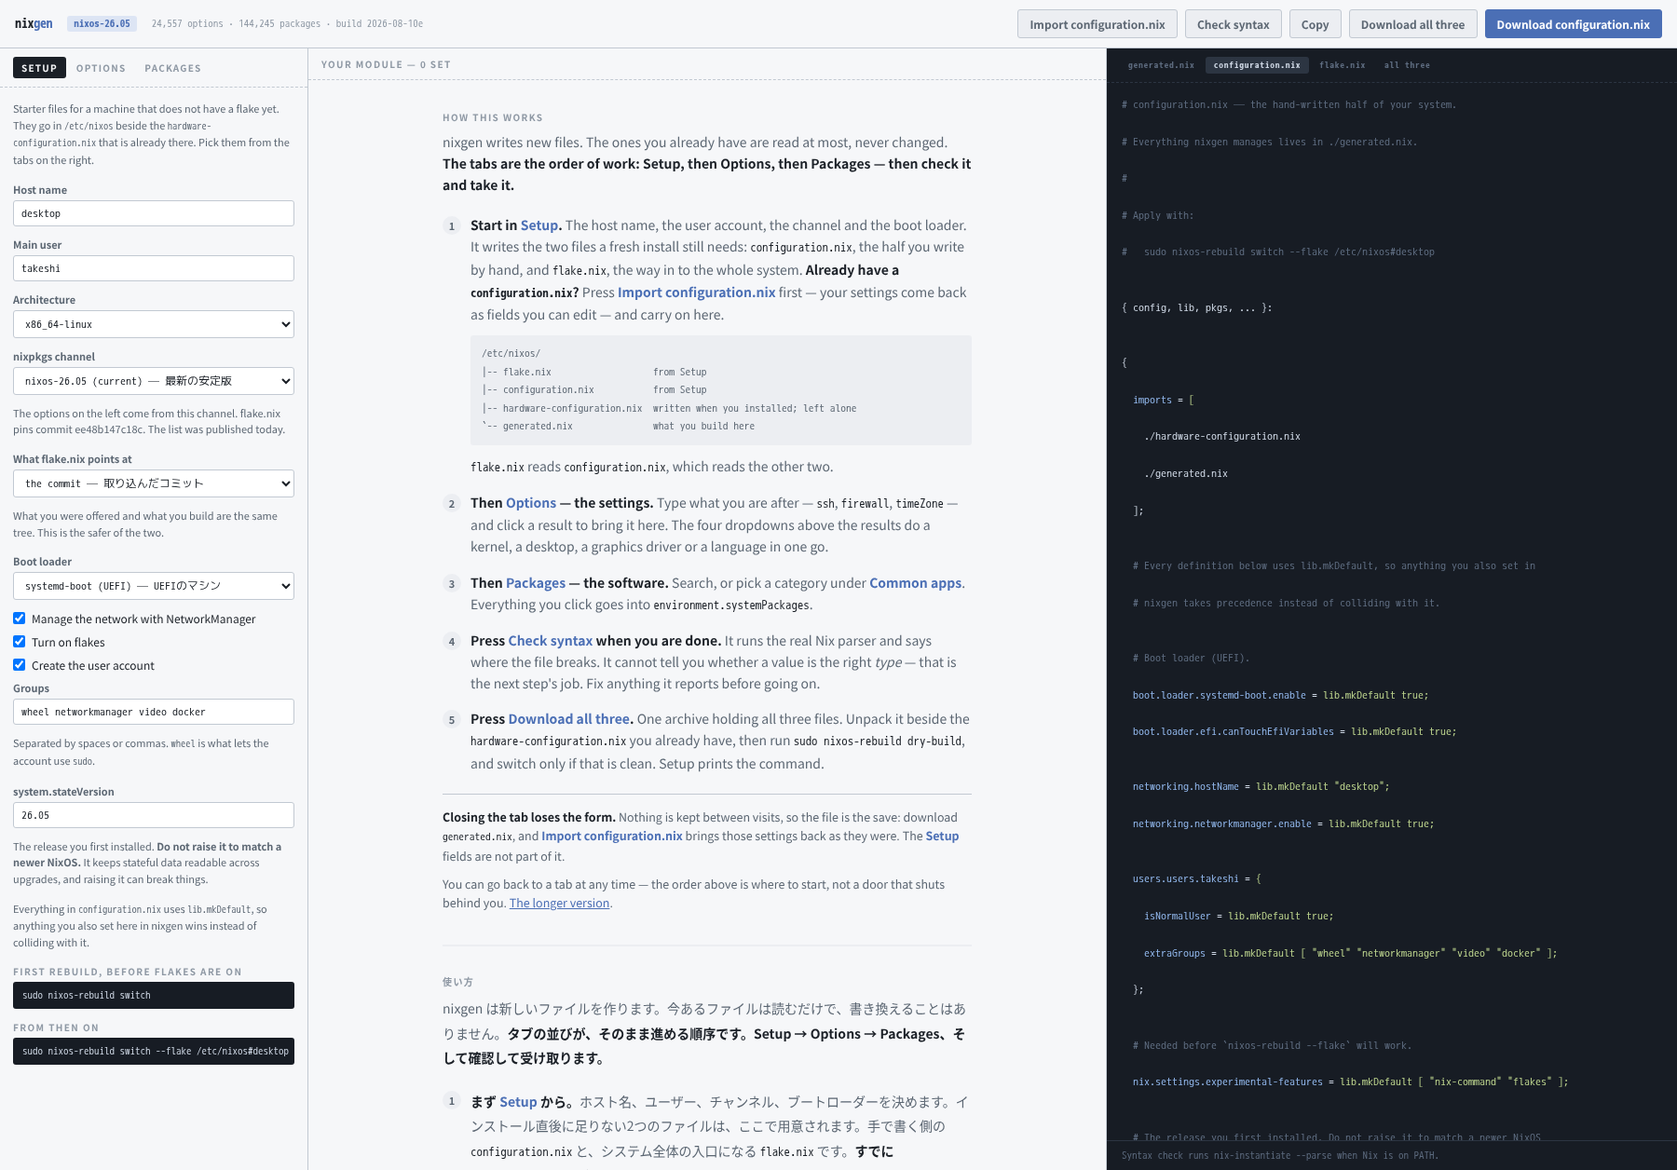
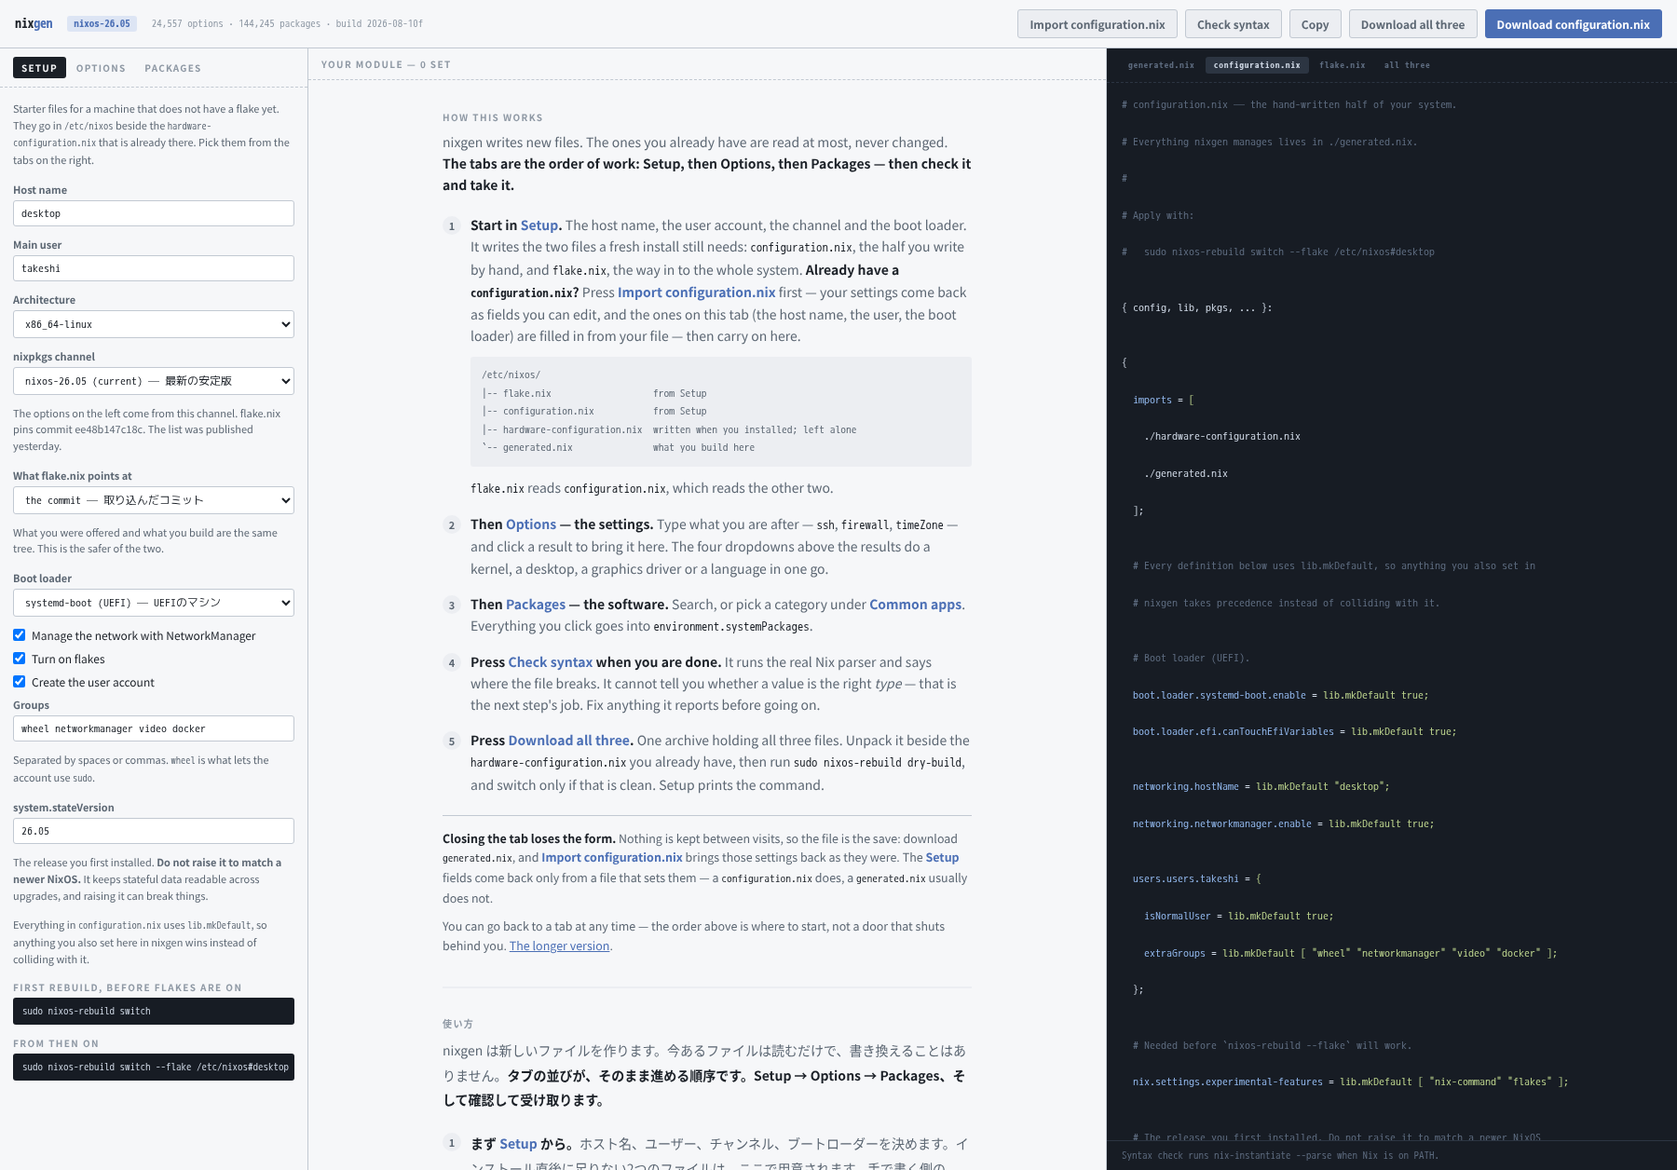
Fill the Setup tab from the configuration.nix you read in
The tab went on describing a machine called nixos after reading a file
that said otherwise, and Download all three then handed over a
configuration.nix that contradicted the one you imported.

The host name, the user and its groups, the architecture, the boot
loader and its GRUB disk, NetworkManager, flakes and stateVersion now
come from the file. They move rather than being copied: they are fields
on that tab and the starter file writes them, so cards as well would
define the same attribute in both files. The summary lists what moved.

Two shapes had to be read rather than assumed. nixpkgs.hostPlatform is a
union, so its value arrives as Nix source with the quotes still on it.
Flakes live inside nix.settings, one attrs option holding a line of
source per key — that card only moves when experimental-features is all
it holds, or somebody's substituters would go with it.

diff --git a/build/static/app.js b/build/static/app.js
@@ -2,7 +2,7 @@
 
 /* Shown in the header. Bump it whenever this file changes, so "the fix did not
    work" can be told apart from "the old file is still being served". */
-const BUILD = '2026-08-10e';
+const BUILD = '2026-08-10f';
 
 const $  = (s, r = document) => r.querySelector(s);
 const $$ = (s, r = document) => [...r.querySelectorAll(s)];
@@ -1626,6 +1626,104 @@ function paintCode(text) {
 
 /* ---------------------------------------------------------------- import */
 
+/* What an existing configuration.nix can tell the Setup tab about the machine.
+
+   Every path here has a field on that tab, and the starter file writes it. So
+   the setting moves rather than being copied: leaving the card as well would
+   put the same attribute in both files, which is what the red markers are for
+   and not something to hand somebody on purpose. Nothing is lost — the value
+   is in the field, and the import summary lists what went there.
+
+   Only values that arrived as values are read. An expression carried over
+   verbatim (`lib.mkIf …`) stays a card, because a form field cannot hold it. */
+function fillSetupFrom(incoming) {
+  const value = new Map();
+  for (const x of incoming) {
+    if (!x.entry.verbatim) value.set(resolvePath(x.entry), x.entry.value);
+  }
+  const used = [];
+  const take = (path, fn) => {
+    if (!value.has(path)) return;
+    if (fn(value.get(path)) === false) return;   // not a shape the field holds
+    used.push(path);
+  };
+
+  take('networking.hostName', v => {
+    if (typeof v !== 'string' || !v.trim()) return false;
+    $('#s-host').value = v.trim();
+  });
+  take('networking.networkmanager.enable', v => {
+    if (typeof v !== 'boolean') return false;
+    $('#s-networkmanager').checked = v;
+  });
+  /* Flakes arrive inside `nix.settings`, which is one attrs option holding a
+     key per line of Nix source — `{"experimental-features": "[ \"flakes\" ]"}`
+     — so the flag is read out of the source rather than from a list. The card
+     only moves to Setup when experimental-features is all it holds: substituters
+     and trusted-users belong to nobody's Setup tab, and taking them out of the
+     module to get at one key beside them would lose them. */
+  take('nix.settings', v => {
+    if (!v || typeof v !== 'object' || Array.isArray(v)) return false;
+    const src = v['experimental-features'];
+    if (typeof src !== 'string') return false;
+    $('#s-flakes').checked = /\bflakes\b/.test(src);
+    return Object.keys(v).length === 1 ? undefined : false;
+  });
+  take('system.stateVersion', v => {
+    if (typeof v !== 'string' || !/^\d\d\.\d\d$/.test(v.trim())) return false;
+    $('#s-state').value = v.trim();
+    // It came from their own file, so a later channel switch must not rewrite
+    // it — the same rule as typing one in.
+    state.stateTouched = true;
+  });
+  /* `nixpkgs.hostPlatform` is `string or (attribute set)`, and the form holds a
+     union as Nix source — so the value arrives as `"aarch64-linux"` with the
+     quotes in it, the same way console.keyMap does. An attribute set is a
+     cross-compilation setup and has no place in a dropdown of two. */
+  take('nixpkgs.hostPlatform', v => {
+    if (typeof v !== 'string') return false;
+    const bare = (/^\s*"([^"]*)"\s*$/.exec(v) || [])[1] ?? v.trim();
+    if (![...$('#s-system').options].some(o => o.value === bare)) return false;
+    $('#s-system').value = bare;
+  });
+
+  // Whichever boot loader is switched on, with the lines the starter writes
+  // alongside it.
+  if (value.get('boot.loader.systemd-boot.enable') === true) {
+    $('#s-bootloader').value = 'systemd-boot';
+    used.push('boot.loader.systemd-boot.enable');
+    if (value.get('boot.loader.efi.canTouchEfiVariables') === true) {
+      used.push('boot.loader.efi.canTouchEfiVariables');
+    }
+  } else if (value.get('boot.loader.grub.enable') === true) {
+    $('#s-bootloader').value = 'grub';
+    used.push('boot.loader.grub.enable');
+    const dev = value.get('boot.loader.grub.device');
+    if (typeof dev === 'string' && dev.trim()) {
+      $('#s-grub-device').value = dev.trim();
+      used.push('boot.loader.grub.device');
+    }
+  }
+
+  // The first normal user, and the groups it is in. A name that is not a plain
+  // identifier is left alone: it would not survive the field, which has to
+  // produce `users.users.<name>`.
+  for (const [path, v] of value) {
+    const m = /^users\.users\.([A-Za-z_][A-Za-z0-9_-]*)\.isNormalUser$/.exec(path);
+    if (!m || v !== true) continue;
+    $('#s-make-user').checked = true;
+    $('#s-user').value = m[1];
+    used.push(path);
+    const groups = value.get(`users.users.${m[1]}.extraGroups`);
+    if (Array.isArray(groups) && groups.length) {
+      $('#s-groups').value = groups.join(' ');
+      used.push(`users.users.${m[1]}.extraGroups`);
+    }
+    break;
+  }
+  return used;
+}
+
 $('#btn-import').addEventListener('click', () => $('#file').click());
 $('#file').addEventListener('change', async ev => {
   const f = ev.target.files[0];
@@ -1688,16 +1786,26 @@ $('#file').addEventListener('change', async ev => {
      what was there rather than joining it. Compared by the path each card
      renders to, not by its key: import files a repeat under a suffixed key, so
      the keys can differ while the attribute is the same. */
-  const arriving = new Set(incoming.map(x => resolvePath(x.entry)));
+  // The machine's own details go to the Setup tab, which is where the starter
+  // files write them, and out of the module rather than into both.
+  const toSetup = fillSetupFrom(incoming);
+  const moved = new Set(toSetup);
+  const kept = incoming.filter(x => !moved.has(resolvePath(x.entry)));
+
+  const arriving = new Set(kept.map(x => resolvePath(x.entry)));
   const replaced = [];
   for (const [key, entry] of [...state.selected]) {
     const path = resolvePath(entry);
-    if (!arriving.has(path)) continue;
+    if (!arriving.has(path) && !moved.has(path)) continue;
     state.selected.delete(key);
-    replaced.push(path);
+    if (arriving.has(path)) replaced.push(path);
   }
-  for (const x of incoming) state.selected.set(freeKey(x.path), x.entry);
+  for (const x of kept) state.selected.set(freeKey(x.path), x.entry);
   state.lastTouched = null;
+  if (toSetup.length) {
+    syncSetupVisibility();
+    await loadStarter();
+  }
 
   const notes = [];
   notes.push({ cls: 'ok', title: `Imported ${r.matched.length} settings from ${f.name}`,
@@ -1705,6 +1813,16 @@ $('#file').addEventListener('change', async ev => {
                  ? 'Parsed with nix-instantiate. Your file was not modified.'
                  : 'Read directly — nix-instantiate was not on PATH.' });
   (r.notes || []).forEach(n => notes.push({ cls: 'warn', title: 'Adjusted while reading', body: n }));
+  if (toSetup.length) {
+    notes.push({ cls: 'ok',
+      title: `${toSetup.length} went to the Setup tab`,
+      list: toSetup,
+      body: 'These describe the machine, and the Setup tab is what writes ' +
+            'them — into configuration.nix rather than into the module. They ' +
+            'are fields there now, so change them there. Nothing was lost: ' +
+            'they are out of the module because they would otherwise be in ' +
+            'both files at once.' });
+  }
   if (replaced.length) {
     notes.push({ cls: 'warn',
       title: `${replaced.length} setting(s) already in the form were replaced`,

diff --git a/build/static/index.html b/build/static/index.html
@@ -244,7 +244,9 @@
               the whole system.
               <b>Already have a <code>configuration.nix</code>?</b> Press
               <b class="w">Import configuration.nix</b> first — your settings
-              come back as fields you can edit — and carry on here.
+              come back as fields you can edit, and the ones on this tab (the
+              host name, the user, the boot loader) are filled in from your
+              file — then carry on here.
               <!-- ASCII rather than box drawing: the mono stack falls back to
                    a proportional face for those glyphs on some machines, and a
                    tree that does not line up is worse than no tree. -->
@@ -278,7 +280,9 @@
               visits, so the file is the save: download
               <code>generated.nix</code>, and <b class="w">Import
               configuration.nix</b> brings those settings back as they were.
-              The <b class="w">Setup</b> fields are not part of it.</p>
+              The <b class="w">Setup</b> fields come back only from a file that
+              sets them — a <code>configuration.nix</code> does, a
+              <code>generated.nix</code> usually does not.</p>
             <p>You can go back to a tab at any time — the order above is where
               to start, not a door that shuts behind you.
               <a href="https://hatake716.github.io/nixgen/" target="_blank"
@@ -297,7 +301,7 @@
             <p class="eyebrow">使い方</p>
             <p class="lede">nixgen は新しいファイルを作ります。今あるファイルは読むだけで、書き換えることはありません。<b>タブの並びが、そのまま進める順序です。Setup → Options → Packages、そして確認して受け取ります。</b></p>
             <ol>
-              <li><b>まず <b class="w">Setup</b> から。</b>ホスト名、ユーザー、チャンネル、ブートローダーを決めます。インストール直後に足りない2つのファイルは、ここで用意されます。手で書く側の <code>configuration.nix</code> と、システム全体の入口になる <code>flake.nix</code> です。<b>すでに <code>configuration.nix</code> がある場合は</b>、先に <b class="w">Import configuration.nix</b> を押してください。今の設定が編集できる入力欄として戻ってくるので、そのままここから続けます。
+              <li><b>まず <b class="w">Setup</b> から。</b>ホスト名、ユーザー、チャンネル、ブートローダーを決めます。インストール直後に足りない2つのファイルは、ここで用意されます。手で書く側の <code>configuration.nix</code> と、システム全体の入口になる <code>flake.nix</code> です。<b>すでに <code>configuration.nix</code> がある場合は</b>、先に <b class="w">Import configuration.nix</b> を押してください。今の設定が編集できる入力欄として戻り、このタブの項目(ホスト名・ユーザー・ブートローダーなど)も<b>読み込んだファイルから埋まります</b>。そのままここから続けてください。
                 <pre class="tree">/etc/nixos/
 |-- flake.nix                   Setup から
 |-- configuration.nix           Setup から
@@ -310,7 +314,7 @@
               <li><b><b class="w">Download all three</b> を押します。</b>3つのファイルが1つの書庫で出てきます。既にある <code>hardware-configuration.nix</code> の隣に展開し、<code>sudo nixos-rebuild dry-build</code> を実行してください。<b>問題が無いときだけ</b>切り替えます。コマンドは Setup に表示されています。</li>
             </ol>
             <div class="after">
-              <p><b>タブを閉じると、入力した内容は消えます。</b>何も保存していないので、保存にあたるのはファイルです。<code>generated.nix</code> をダウンロードしておけば、<b class="w">Import configuration.nix</b> で元のとおりに戻せます。<b class="w">Setup</b> の入力欄はこれに含まれません。</p>
+              <p><b>タブを閉じると、入力した内容は消えます。</b>何も保存していないので、保存にあたるのはファイルです。<code>generated.nix</code> をダウンロードしておけば、<b class="w">Import configuration.nix</b> で元のとおりに戻せます。<b class="w">Setup</b> の入力欄が戻るのは、その値を書いてあるファイルを読んだときだけです。<code>configuration.nix</code> には書いてありますが、<code>generated.nix</code> にはたいてい書いてありません。</p>
               <p>タブはいつでも戻れます。上の順序は<b>どこから始めるか</b>の話で、一度離れたら戻れないわけではありません。<a href="https://hatake716.github.io/nixgen/" target="_blank" rel="noreferrer">詳しい説明</a>。</p>
             </div>
           </div>

diff --git a/docs/index.html b/docs/index.html
@@ -354,6 +354,12 @@ https://channels.nixos.org/nixos-26.05/packages.json.br</pre>
       Every setting ends up in the output, in one of four ways.</p>
     <p class="ja">ファイルはまず <code>nix-instantiate --parse</code> に渡します。<b>本物のNixパーサに解析させる</b>ので、ソースを正規表現で殴る必要がありません。ファイルは読み取り専用で開かれ、書き換えは一切しません。すべての項目が4通りのいずれかで出力に入ります。</p>
 
+    <p class="en">The machine's own details — host name, user account and groups, architecture, boot
+      loader, NetworkManager, flakes, <code>system.stateVersion</code> — fill the <b>Setup</b> tab
+      instead. Those are fields there, and the starter <code>configuration.nix</code> is what writes
+      them, so they move rather than being put in both files. The import summary lists which did.</p>
+    <p class="ja">そのマシン自体を表す項目(ホスト名、ユーザーとグループ、アーキテクチャ、ブートローダー、NetworkManager、flakes、<code>system.stateVersion</code>)は、<b>Setup</b> タブに入ります。これらは Setup タブの入力欄であり、スターターの <code>configuration.nix</code> が書くものなので、両方のファイルに書くのではなく<b>そちらへ移します</b>。どれが移ったかは取り込みサマリに出ます。</p>
+
     <div class="cols">
       <div class="card ok">
         <h4 class="en">Filled into the form</h4>

diff --git a/CHANGELOG.md b/CHANGELOG.md
@@ -9,6 +9,24 @@ option counts.
 
 ## English
 
+### build 2026-08-10f
+
+- **Reading in a configuration.nix fills the Setup tab.** The host name, the
+  user account and its groups, the architecture, the boot loader and its GRUB
+  disk, NetworkManager, whether flakes are on, and `system.stateVersion` — all
+  of them come from the file you just read, instead of the tab still describing
+  a machine called `nixos`.
+- **Those settings move rather than being copied.** They are fields on that tab
+  and the starter `configuration.nix` is what writes them, so leaving cards
+  behind as well would put the same attribute in both files. The import summary
+  lists exactly which ones went, and everything else stays in the module.
+- Two shapes had to be read rather than assumed: `nixpkgs.hostPlatform` is a
+  union, so its value arrives as Nix source with the quotes still on it, and
+  flakes live inside `nix.settings`, which is one attrs option holding a line of
+  source per key. **That card only moves when experimental-features is all it
+  holds** — nobody's substituters belong on a Setup tab, and taking the option
+  to get at one key beside them would take them too.
+
 ### build 2026-08-10e
 
 Five defects, found by driving the app rather than by reading it. The first two
@@ -489,6 +507,12 @@ three of these six showed up in only one of the two.
 ---
 
 ## 日本語
+
+### build 2026-08-10f
+
+- **configuration.nix を読み込むと、Setup タブに反映されるようにしました。** ホスト名、ユーザーとそのグループ、アーキテクチャ、ブートローダー(GRUBならディスクも)、NetworkManager、flakesの有無、`system.stateVersion` が、**いま読み込んだファイルの内容**になります。読み込んだのに Setup タブが `nixos` という名前のマシンの話をしたまま、ということがなくなりました。
+- **これらの項目は、コピーではなく移動します。** Setup タブの入力欄であり、スターターの `configuration.nix` が書くものだからです。moduleにもカードを残すと、**同じ属性が2つのファイルに書かれる**ことになります。どれが移ったかは取り込みサマリに一覧で出ます。それ以外はすべて module に残ります。
+- 値の形は推測せず、実際に読んで合わせました。`nixpkgs.hostPlatform` は union なので**引用符が付いたままのNixソース**として届きます。flakesは `nix.settings` の中にあり、これは**キーごとにNixソースを持つ1つのattrsオプション**です。**このカードが移るのは experimental-features しか入っていないときだけ**にしました。他人の substituters は Setup タブに置くものではありませんし、隣のキー1つのために取り上げれば**それらも一緒に持って行ってしまう**からです。
 
 ### build 2026-08-10e
 

diff --git a/CLAUDE.md b/CLAUDE.md
@@ -119,6 +119,18 @@ at `nixos-rebuild`, which is the least helpful place for it to surface.
   (module structure), verbatim (an expression), verbatim (not in this release).
   Nothing is discarded. If a fifth case appears, add a group rather than dropping
   it.
+- **The machine's own details go to the Setup tab, and go there instead.**
+  `fillSetupFrom` in `app.js` takes the host name, the user and its groups, the
+  architecture, the boot loader and its GRUB disk, NetworkManager, flakes and
+  `system.stateVersion`, and those cards are then left out of the module: they
+  are fields on that tab and the starter `configuration.nix` writes them, so
+  keeping cards as well would define the same attribute in both files. It is a
+  move, not a discard, and the summary lists what moved. Two shapes have to be
+  read rather than assumed — `nixpkgs.hostPlatform` is a union so its value
+  arrives as Nix source with the quotes on it, and flakes live inside
+  `nix.settings`, an attrs option holding a line of source per key. **That one
+  only moves when experimental-features is the only key**, or substituters and
+  trusted-users would be carried off with it.
 - **Relative paths are restored.** `nix-instantiate --parse` resolves `./x.nix`
   against wherever the file sits, so the parse runs in a directory whose name
   can be recognised and turned back into `.`.

diff --git a/README.ja.md b/README.ja.md
@@ -262,7 +262,9 @@ sudo nixos-rebuild switch --flake /etc/nixos#ホスト名
 
 **Import configuration.nix** を押してファイルを選ぶと、いまの設定がフォームに展開されます。**選んだファイルは読むだけで、書き換えは一切しません。**
 
-読み込んだ項目は、次の4つに分かれます。全部が出力に入るので、消えるものはありません。
+**そのマシン自体を表す項目は、Setup タブに入ります。** ホスト名、ユーザーとそのグループ、アーキテクチャ、ブートローダー(GRUBならディスクも)、NetworkManager、flakesの有無、`system.stateVersion` です。これらは Setup タブの入力欄であり、**スターターの `configuration.nix` が書く**ものなので、moduleにも書くのではなく**そちらへ移します**。どれが移ったかは取り込みサマリに出ます。残りはすべて module に入ります。
+
+残りの項目は、次の4つに分かれます。全部が出力に入るので、消えるものはありません。
 
 | 分類 | 意味 |
 |---|---|

diff --git a/README.md b/README.md
@@ -310,8 +310,15 @@ out, so the file stays as short as what you actually asked for.
 Press **Import configuration.nix** and pick your file. Your current settings
 appear in the form. **The file you choose is only ever read, never written to.**
 
-Each setting lands in one of four groups. All four end up in the output, so
-nothing is lost:
+**The machine's own details go to the Setup tab.** The host name, the user
+account and its groups, the architecture, the boot loader (and the GRUB disk),
+NetworkManager, whether flakes are on, and `system.stateVersion` — those are
+fields on that tab, and the starter `configuration.nix` is what writes them. So
+they move there rather than being written into the module as well; the summary
+lists which ones did. Everything else stays in the module.
+
+The rest lands in one of four groups. All four end up in the output, so nothing
+is lost:
 
 | Group | What it means |
 |---|---|
